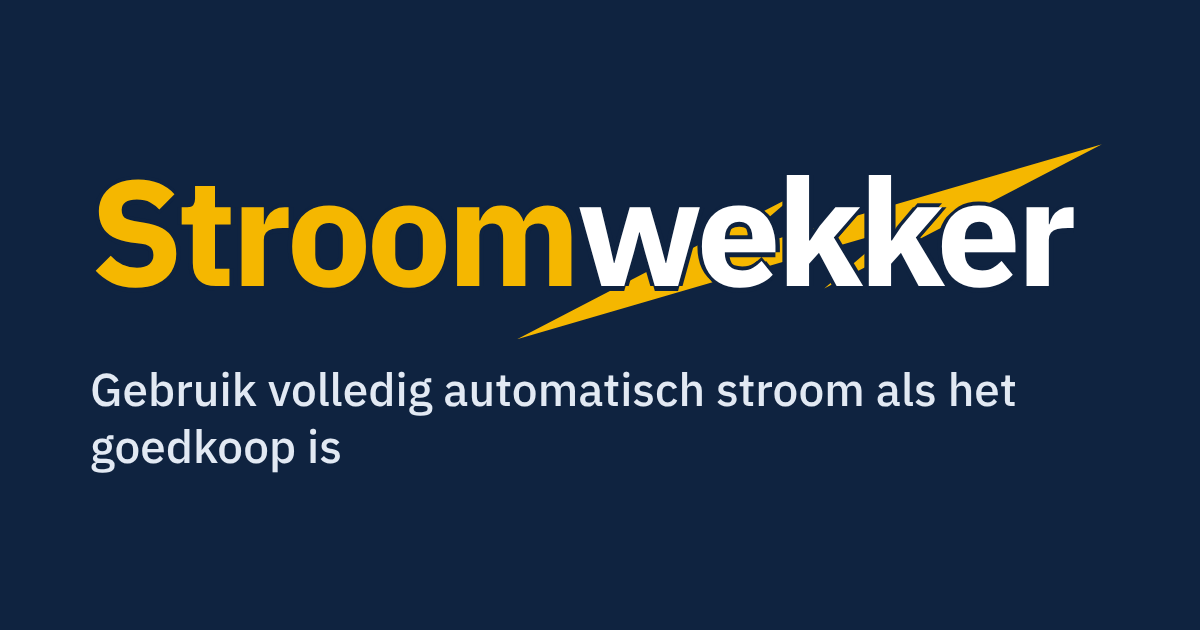
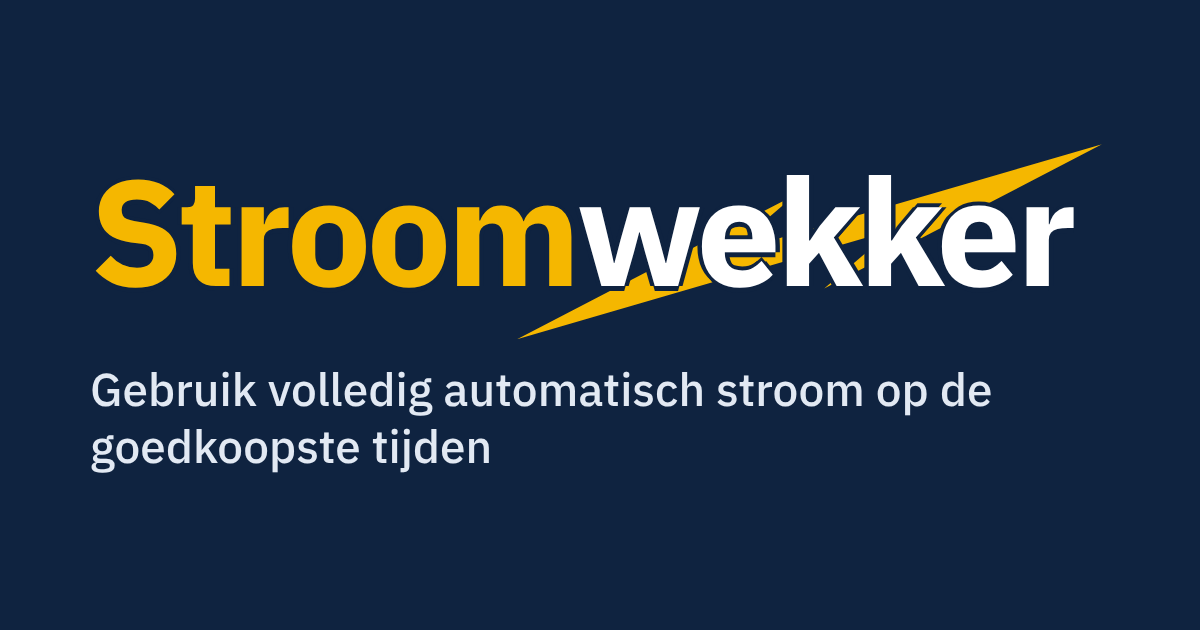
Kopregel: Gebruik volledig automatisch stroom op de goedkoopste tijden
Claude-Session: https://claude.ai/code/session_01Lxu2CzAjjddvpuFJvYuDec

Changed region(s): [[0.2467, 0.6635, 0.4317, 0.754], [0.7092, 0.573, 0.8633, 0.6635]]

diff --git a/public/index.html b/public/index.html
@@ -11,13 +11,13 @@
 <meta property="og:type" content="website">
 <meta property="og:site_name" content="Stroomwekker">
 <meta property="og:locale" content="nl_NL">
-<meta property="og:title" content="Stroomwekker – gebruik automatisch stroom als het goedkoop is">
+<meta property="og:title" content="Stroomwekker – gebruik automatisch stroom op de goedkoopste tijden">
 <meta property="og:description" content="Dynamisch energiecontract? Stroomwekker zet je slimme stekker (Action, Shelly, Smart Life) vanzelf aan als stroom goedkoop is. Live prijs per kwartier.">
 <meta property="og:url" content="https://stroomwekker.eu/">
 <meta property="og:image" content="https://stroomwekker.eu/og.png">
 <meta property="og:image:width" content="1200">
 <meta property="og:image:height" content="630">
-<meta property="og:image:alt" content="Stroomwekker: gebruik volledig automatisch stroom als het goedkoop is">
+<meta property="og:image:alt" content="Stroomwekker: gebruik volledig automatisch stroom op de goedkoopste tijden">
 <meta name="twitter:card" content="summary_large_image">
 <meta name="theme-color" content="#0F2340">
 <link rel="manifest" href="/manifest.webmanifest">
@@ -308,7 +308,7 @@ details.meer[open]>summary::after{transform:rotate(-135deg)}
 <section class="hero">
   <div class="wrap">
     <div>
-      <h1>Gebruik volledig automatisch stroom als het goedkoop is</h1>
+      <h1>Gebruik volledig automatisch stroom op de goedkoopste tijden</h1>
       <p class="promise">Voor iedereen met een dynamisch energiecontract. Stroomwekker volgt de prijs per kwartier en zet je apparaten aan op de goedkoopste momenten.</p>
       <p class="vraag">Wat wil je regelen?</p>
       <div class="keuzes">

diff --git a/public/404.html b/public/404.html
@@ -16,7 +16,7 @@
 <meta property="og:image" content="https://stroomwekker.eu/og.png">
 <meta property="og:image:width" content="1200">
 <meta property="og:image:height" content="630">
-<meta property="og:image:alt" content="Stroomwekker: gebruik volledig automatisch stroom als het goedkoop is">
+<meta property="og:image:alt" content="Stroomwekker: gebruik volledig automatisch stroom op de goedkoopste tijden">
 <meta name="twitter:card" content="summary_large_image">
 <meta name="theme-color" content="#0F2340">
 <link rel="manifest" href="/manifest.webmanifest">

diff --git a/public/contact/bedankt/index.html b/public/contact/bedankt/index.html
@@ -15,7 +15,7 @@
 <meta property="og:image" content="https://stroomwekker.eu/og.png">
 <meta property="og:image:width" content="1200">
 <meta property="og:image:height" content="630">
-<meta property="og:image:alt" content="Stroomwekker: gebruik volledig automatisch stroom als het goedkoop is">
+<meta property="og:image:alt" content="Stroomwekker: gebruik volledig automatisch stroom op de goedkoopste tijden">
 <meta name="twitter:card" content="summary_large_image">
 <meta name="theme-color" content="#0F2340">
 <link rel="manifest" href="/manifest.webmanifest">

diff --git a/public/contact/index.html b/public/contact/index.html
@@ -17,7 +17,7 @@
 <meta property="og:image" content="https://stroomwekker.eu/og.png">
 <meta property="og:image:width" content="1200">
 <meta property="og:image:height" content="630">
-<meta property="og:image:alt" content="Stroomwekker: gebruik volledig automatisch stroom als het goedkoop is">
+<meta property="og:image:alt" content="Stroomwekker: gebruik volledig automatisch stroom op de goedkoopste tijden">
 <meta name="twitter:card" content="summary_large_image">
 <meta name="theme-color" content="#0F2340">
 <link rel="manifest" href="/manifest.webmanifest">

diff --git a/public/gebruiksvoorwaarden/index.html b/public/gebruiksvoorwaarden/index.html
@@ -17,7 +17,7 @@
 <meta property="og:image" content="https://stroomwekker.eu/og.png">
 <meta property="og:image:width" content="1200">
 <meta property="og:image:height" content="630">
-<meta property="og:image:alt" content="Stroomwekker: gebruik volledig automatisch stroom als het goedkoop is">
+<meta property="og:image:alt" content="Stroomwekker: gebruik volledig automatisch stroom op de goedkoopste tijden">
 <meta name="twitter:card" content="summary_large_image">
 <meta name="theme-color" content="#0F2340">
 <link rel="manifest" href="/manifest.webmanifest">

diff --git a/public/gids/action-slimme-stekker-koppelen/index.html b/public/gids/action-slimme-stekker-koppelen/index.html
@@ -17,7 +17,7 @@
 <meta property="og:image" content="https://stroomwekker.eu/og.png">
 <meta property="og:image:width" content="1200">
 <meta property="og:image:height" content="630">
-<meta property="og:image:alt" content="Stroomwekker: gebruik volledig automatisch stroom als het goedkoop is">
+<meta property="og:image:alt" content="Stroomwekker: gebruik volledig automatisch stroom op de goedkoopste tijden">
 <meta name="twitter:card" content="summary_large_image">
 <meta name="theme-color" content="#0F2340">
 <link rel="manifest" href="/manifest.webmanifest">

diff --git a/public/gids/dynamisch-energiecontract/index.html b/public/gids/dynamisch-energiecontract/index.html
@@ -17,7 +17,7 @@
 <meta property="og:image" content="https://stroomwekker.eu/og.png">
 <meta property="og:image:width" content="1200">
 <meta property="og:image:height" content="630">
-<meta property="og:image:alt" content="Stroomwekker: gebruik volledig automatisch stroom als het goedkoop is">
+<meta property="og:image:alt" content="Stroomwekker: gebruik volledig automatisch stroom op de goedkoopste tijden">
 <meta name="twitter:card" content="summary_large_image">
 <meta name="theme-color" content="#0F2340">
 <link rel="manifest" href="/manifest.webmanifest">

diff --git a/public/gids/index.html b/public/gids/index.html
@@ -17,7 +17,7 @@
 <meta property="og:image" content="https://stroomwekker.eu/og.png">
 <meta property="og:image:width" content="1200">
 <meta property="og:image:height" content="630">
-<meta property="og:image:alt" content="Stroomwekker: gebruik volledig automatisch stroom als het goedkoop is">
+<meta property="og:image:alt" content="Stroomwekker: gebruik volledig automatisch stroom op de goedkoopste tijden">
 <meta name="twitter:card" content="summary_large_image">
 <meta name="theme-color" content="#0F2340">
 <link rel="manifest" href="/manifest.webmanifest">

diff --git a/public/gids/negatieve-stroomprijs/index.html b/public/gids/negatieve-stroomprijs/index.html
@@ -17,7 +17,7 @@
 <meta property="og:image" content="https://stroomwekker.eu/og.png">
 <meta property="og:image:width" content="1200">
 <meta property="og:image:height" content="630">
-<meta property="og:image:alt" content="Stroomwekker: gebruik volledig automatisch stroom als het goedkoop is">
+<meta property="og:image:alt" content="Stroomwekker: gebruik volledig automatisch stroom op de goedkoopste tijden">
 <meta name="twitter:card" content="summary_large_image">
 <meta name="theme-color" content="#0F2340">
 <link rel="manifest" href="/manifest.webmanifest">

diff --git a/public/gids/saldering-stopt-2027/index.html b/public/gids/saldering-stopt-2027/index.html
@@ -17,7 +17,7 @@
 <meta property="og:image" content="https://stroomwekker.eu/og.png">
 <meta property="og:image:width" content="1200">
 <meta property="og:image:height" content="630">
-<meta property="og:image:alt" content="Stroomwekker: gebruik volledig automatisch stroom als het goedkoop is">
+<meta property="og:image:alt" content="Stroomwekker: gebruik volledig automatisch stroom op de goedkoopste tijden">
 <meta name="twitter:card" content="summary_large_image">
 <meta name="theme-color" content="#0F2340">
 <link rel="manifest" href="/manifest.webmanifest">

diff --git a/public/gids/stroomprijs-per-kwartier/index.html b/public/gids/stroomprijs-per-kwartier/index.html
@@ -17,7 +17,7 @@
 <meta property="og:image" content="https://stroomwekker.eu/og.png">
 <meta property="og:image:width" content="1200">
 <meta property="og:image:height" content="630">
-<meta property="og:image:alt" content="Stroomwekker: gebruik volledig automatisch stroom als het goedkoop is">
+<meta property="og:image:alt" content="Stroomwekker: gebruik volledig automatisch stroom op de goedkoopste tijden">
 <meta name="twitter:card" content="summary_large_image">
 <meta name="theme-color" content="#0F2340">
 <link rel="manifest" href="/manifest.webmanifest">

diff --git a/public/gids/thuisbatterij-dynamisch-contract/index.html b/public/gids/thuisbatterij-dynamisch-contract/index.html
@@ -17,7 +17,7 @@
 <meta property="og:image" content="https://stroomwekker.eu/og.png">
 <meta property="og:image:width" content="1200">
 <meta property="og:image:height" content="630">
-<meta property="og:image:alt" content="Stroomwekker: gebruik volledig automatisch stroom als het goedkoop is">
+<meta property="og:image:alt" content="Stroomwekker: gebruik volledig automatisch stroom op de goedkoopste tijden">
 <meta name="twitter:card" content="summary_large_image">
 <meta name="theme-color" content="#0F2340">
 <link rel="manifest" href="/manifest.webmanifest">
